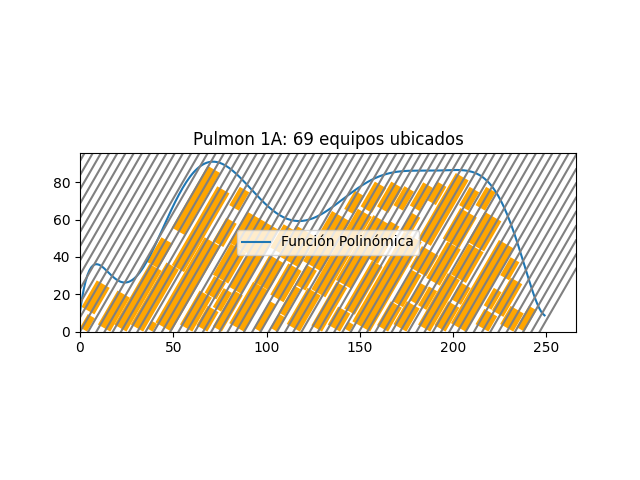
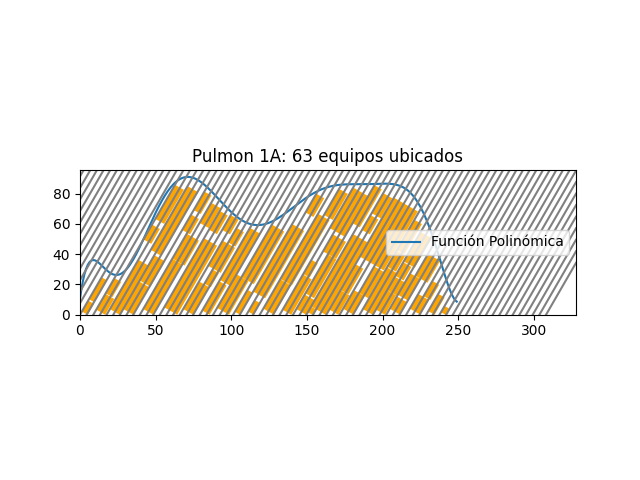
Slot algorithm almost complete

Changed region(s): [[0.0625, 0.2812, 0.9062, 0.75]]

diff --git a/modules/tetris/DualSorter.py b/modules/tetris/DualSorter.py
@@ -1,4 +1,5 @@
 import math
+import numpy as np
 
 class DualSorter:
 
@@ -33,21 +34,71 @@ class DualSorter:
         return True
     
     def _assign_coords(self,index, place, x_values, y_values, rect, located_recs, located=False):
+        
+        #if(index == self.monitor): print(x_values)
+        '''
+        if(self.slot_size > 0):
+            
+            # Ángulo en grados
+            angulo = 60
+
+            # Convertir el ángulo a radianes
+            angulo_rad = np.deg2rad(angulo)
+
+            # Calcular la pendiente a partir del ángulo
+            pendiente = np.tan(angulo_rad)
+
+            corners = rect.rotated_corners
+            left_corner = corners[0]
+            
+            #x_init = self._move_point_to_align(left_corner[0], self.slot_size)
+            x_delta = left_corner[1]/pendiente
+
+        else:
+            x_delta = 0
+        
+        '''
+        
         for y_patio in y_values:
 
+            if(self.slot_size > 0):
+            
+                # Ángulo en grados
+                angulo = 60
+
+                # Convertir el ángulo a radianes
+                angulo_rad = np.deg2rad(angulo)
+
+                # Calcular la pendiente a partir del ángulo
+                pendiente = np.tan(angulo_rad)
+
+                corners = rect.rotated_corners
+                left_corner = corners[0]
+                
+                #x_init = self._move_point_to_align(left_corner[0], self.slot_size)
+                x_delta = left_corner[1]/pendiente
+
+            else:
+                x_delta = 0
+
+            '''
+            if(self.slot_size > 0):
+                #x_delta = y_patio/pendiente
+                x_delta = 0
+            else:
+                x_delta = 0
+            '''
+
             if(not located):
+
+                added_delta=False
+
                 for x_patio in x_values:
 
-                    if(self.slot_size > 0):
-                        angle_radians = math.radians(-30) #TODO: Get angle as arg
-                        cosine = math.cos(angle_radians)
-
-                        x_delta = (y_values[1]-y_values[0])*cosine
-                    else:
-                        x_delta = 0
+                    if(not added_delta):
+                        rect.update_coords(x_delta,0)
+                        added_delta = True
                     
-                    x_patio += x_delta
-
                     fits = False
                     overlap = False
 
@@ -83,13 +134,20 @@ class DualSorter:
                             #unlocated_recs.remove(rect)
                             break
                         else:
-                            x_diff = abs(x_patio - left_corner[0])
+                            
+                            if(self.slot_size > 0):
+                                x_diff = self.slot_size
+                            else:
+                                x_diff = abs(x_patio - left_corner[0])
                             # Move the X coordinates a bit a try again
                             rect.update_coords(x_diff,0)
                             #print(f'Rect {index}: Updating coords')
 
                     else:
-                        x_diff = abs(x_patio - left_corner[0])
+                        if(self.slot_size > 0):
+                            x_diff = self.slot_size
+                        else:
+                            x_diff = abs(x_patio - left_corner[0])
                         # Move the X coordinates a bit a try again
                         rect.update_coords(x_diff,0)
                         #print(f'Rect {index}: Updating coords')
@@ -142,9 +200,9 @@ class DualSorter:
                 else: # Place B
                     located = self._assign_coords(index, self.placeA, placeA_x_values, placeA_y_values, rect, self.placeA_recs)
 
-                if(index == self.monitor):
-                    print(f'PLACE A-Y:{placeA_y_values}')
-                    print(f'PLACE B-Y:{placeB_y_values}')
+                #if(index == self.monitor):
+                #    print(f'PLACE A-Y:{placeA_y_values}')
+                #    print(f'PLACE B-Y:{placeB_y_values}')
 
             if(index == self.monitor): 
                 print(f'LAST: {rect.rotated_corners}, WIDTH:{rect.width}, HEIGHT:{rect.height}')
@@ -155,3 +213,9 @@ class DualSorter:
         print(f'Patio A {len(self.placeA_recs)}')
         print(f'Patio B {len(self.placeB_recs)}')
         return self.placeA_recs, self.placeB_recs
+    
+    def _move_point_to_align(self,point_x, line_spacing):
+        #line_spacing = 4.4
+        closest_line_x = round(point_x / line_spacing) * line_spacing
+        difference = closest_line_x - point_x
+        return difference

diff --git a/modules/tetris/Plotter.py b/modules/tetris/Plotter.py
@@ -64,15 +64,12 @@ class Plotter:
             # Calcular la pendiente a partir del ángulo
             pendiente = np.tan(angulo_rad)
 
-            for pos in np.arange(-88, 250, 4.4):
+            for pos in np.arange(-88, x_range[1]+20, 4.4):
                 ax.axline((pos, 0), slope=pendiente, color='gray', linestyle='-')
 
         for rectangle in rects:
             # Draw the rotated rectangle
             ax.add_patch(patches.Polygon(list(zip(rectangle.x_rotated, rectangle.y_rotated)), closed=True, facecolor='orange'))
-
-
-
 
         ax.set_xlim(left=min(x_values))
         ax.set_ylim(bottom=0)

diff --git a/modules/sort_inventory_module.py b/modules/sort_inventory_module.py
@@ -8,7 +8,8 @@ from .tetris.Polynomial import Polynomial, PolyRegressor
 class InventorySorter:
     """
     """
-    sort_types = ['GROUP','DAYS','SLOTS','TETRIS']
+    #sort_types = ['GROUP','DAYS','SLOTS','TETRIS']
+    sort_types = ['DAYS','TETRIS']
     #sort_types = ['GROUP','DAYS']
     opt_style = "storage-days"
 
